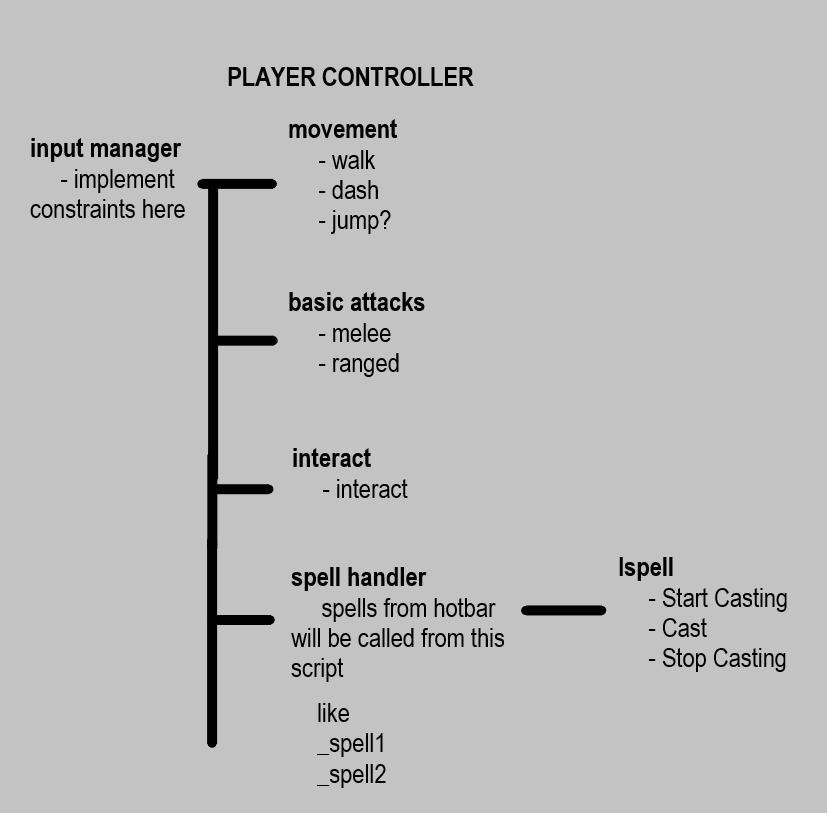
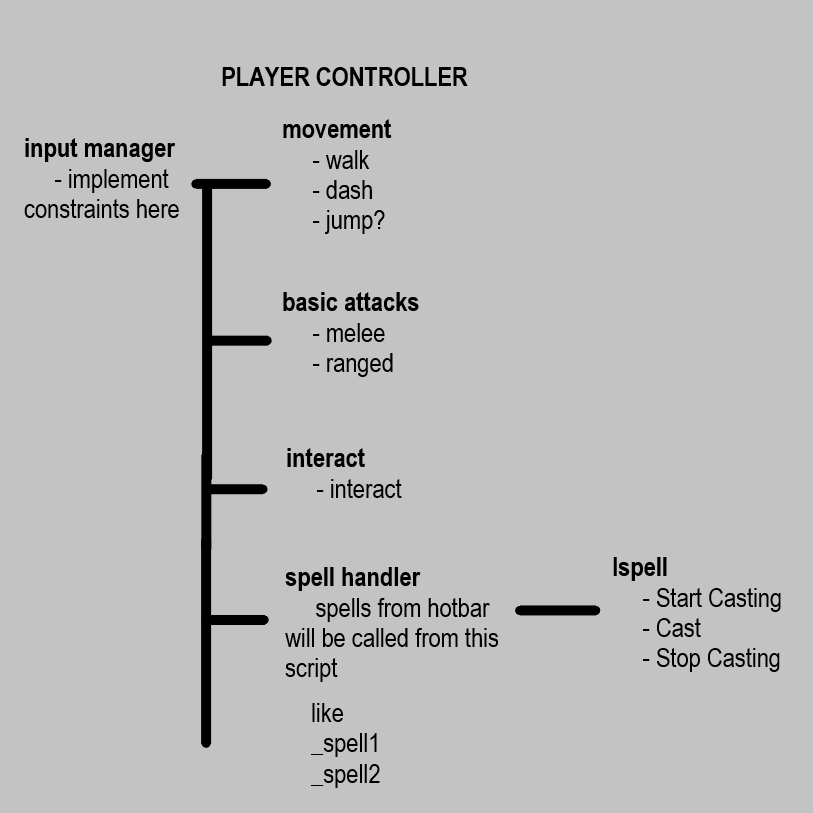
GDG - minor update

diff --git a/README.md b/README.md
@@ -16,23 +16,34 @@
 
 
 <h1 align = "center" id = "gamedesignDoc"> GAME DESIGN DOCUMENT </h1>
+
 <p align = "center"><img src="img/necromancer1.jpg" alt="Necromancer1"><p>
+
 <h2 align = "center" id = "gameDetails"> GAME DETAILS </h2>
 
 - <p> Name :        Project - NextRogue</p>
 - <p> Genre :       Action - RogueLike/Lite</p>
 - <p> Art Style :   2D - TopDown</p>
+  
 <h2 align = "center" id = "gameplayElements"> GAMEPLAY ELEMENTS </h2>
-<p align = "center"><img src="img/Player%20Controller.png" alt="PlayerMechanics"><p>
+
+<p align = "center">
+<img src="img/Player%20Controller.png" width="500" height="500"  alt="PlayerMechanics">
+<p>
+
 <h3 align = "center" id = "playermechanics" >PLAYER MECHANICS</h3>
+
 I want a fast gameplay so fluid character controller is mandatory. 
+
 <p id = "playerMovement" >Player Movement:</p>
+
 Main combat will be built on necromancy. So there is two types of basic atacks. 
 
 Melee one deals little or no damage. It's main purpose is to swing enemies back.
 
 Ranged one is one touch one cast spell. Which means there will be no casting time.
 It deals little bit more damage than melee attack.
+
 <p id = "playerCombat" >Player Combat:</p>
 
   - Spells
